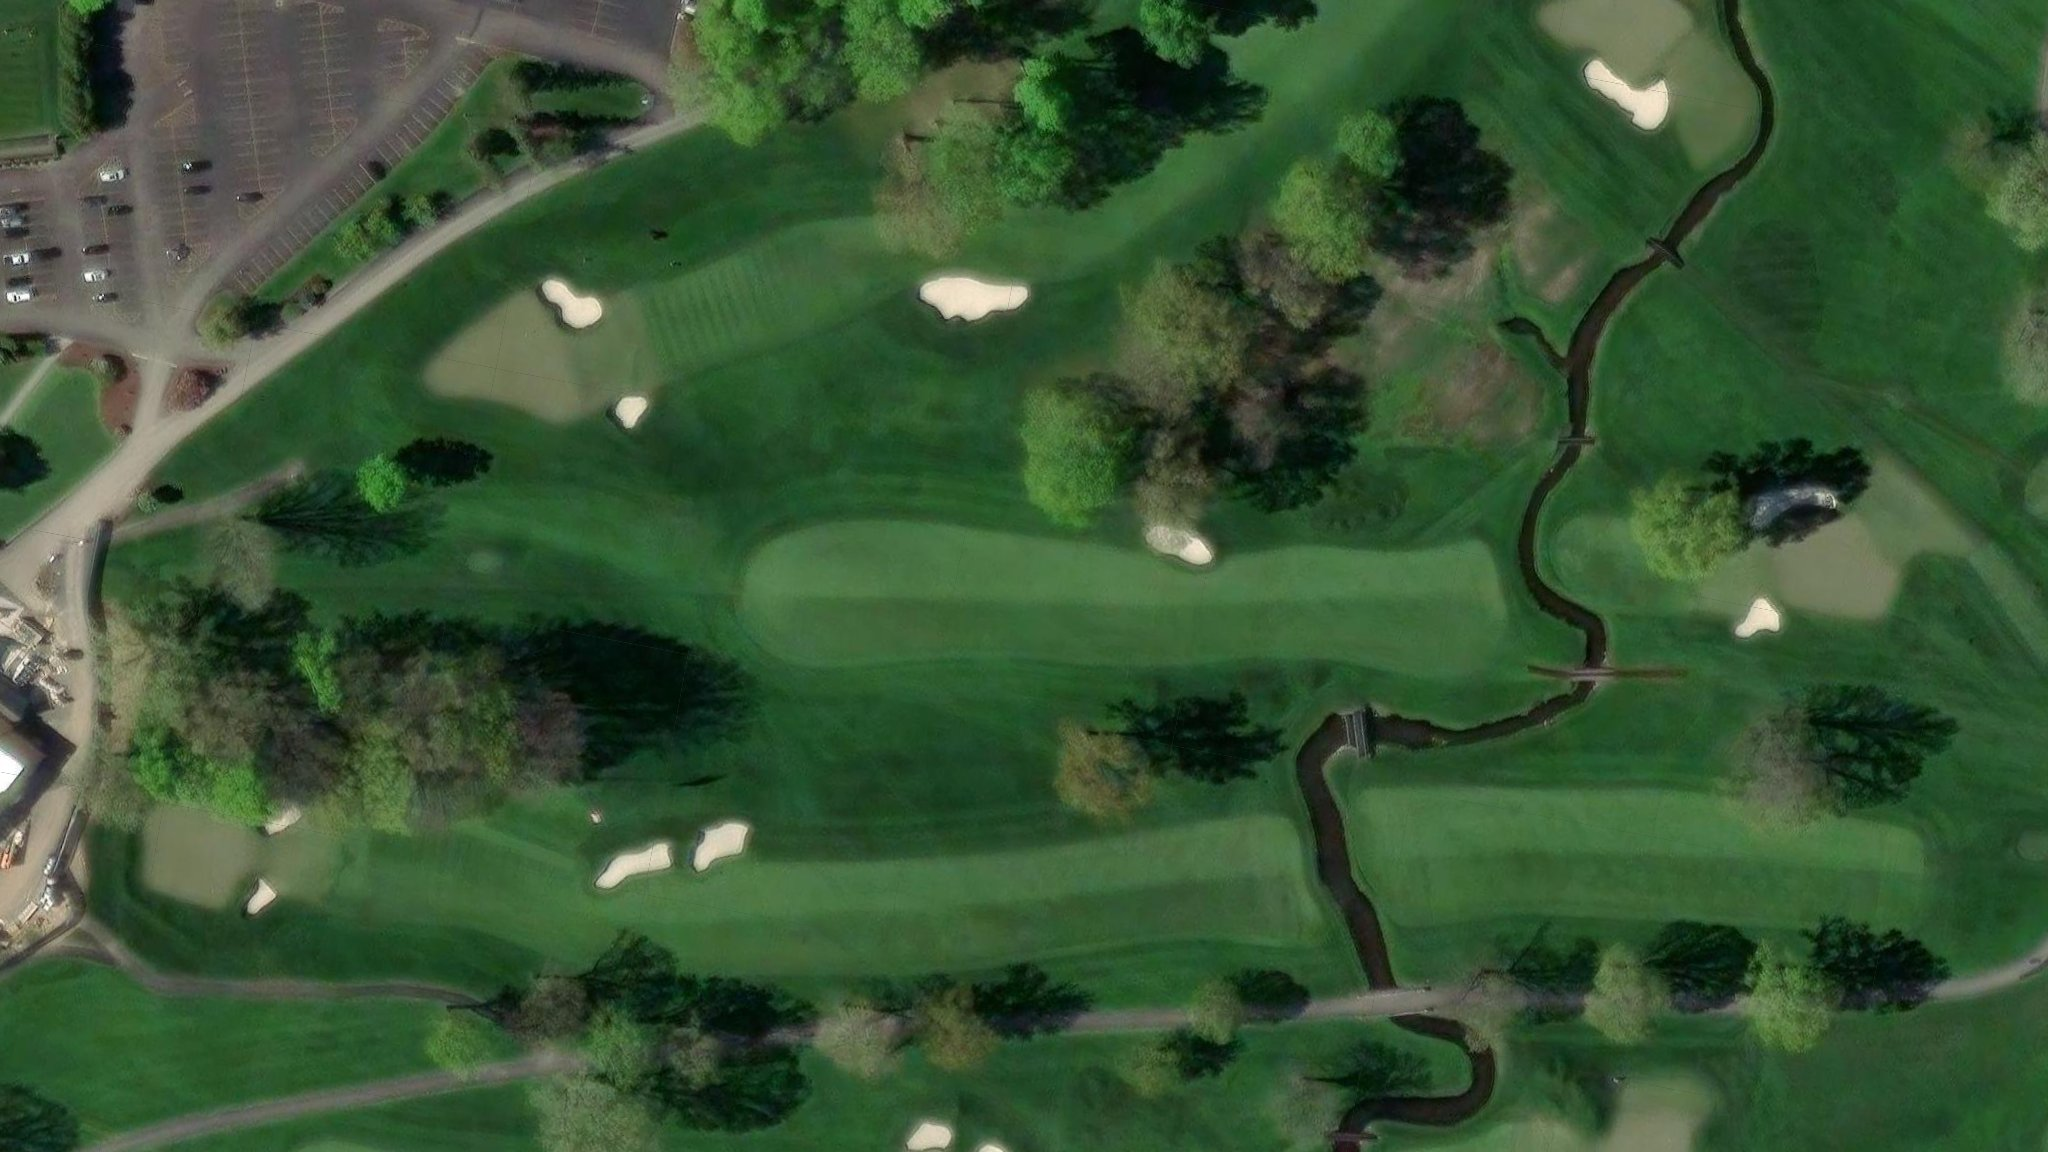
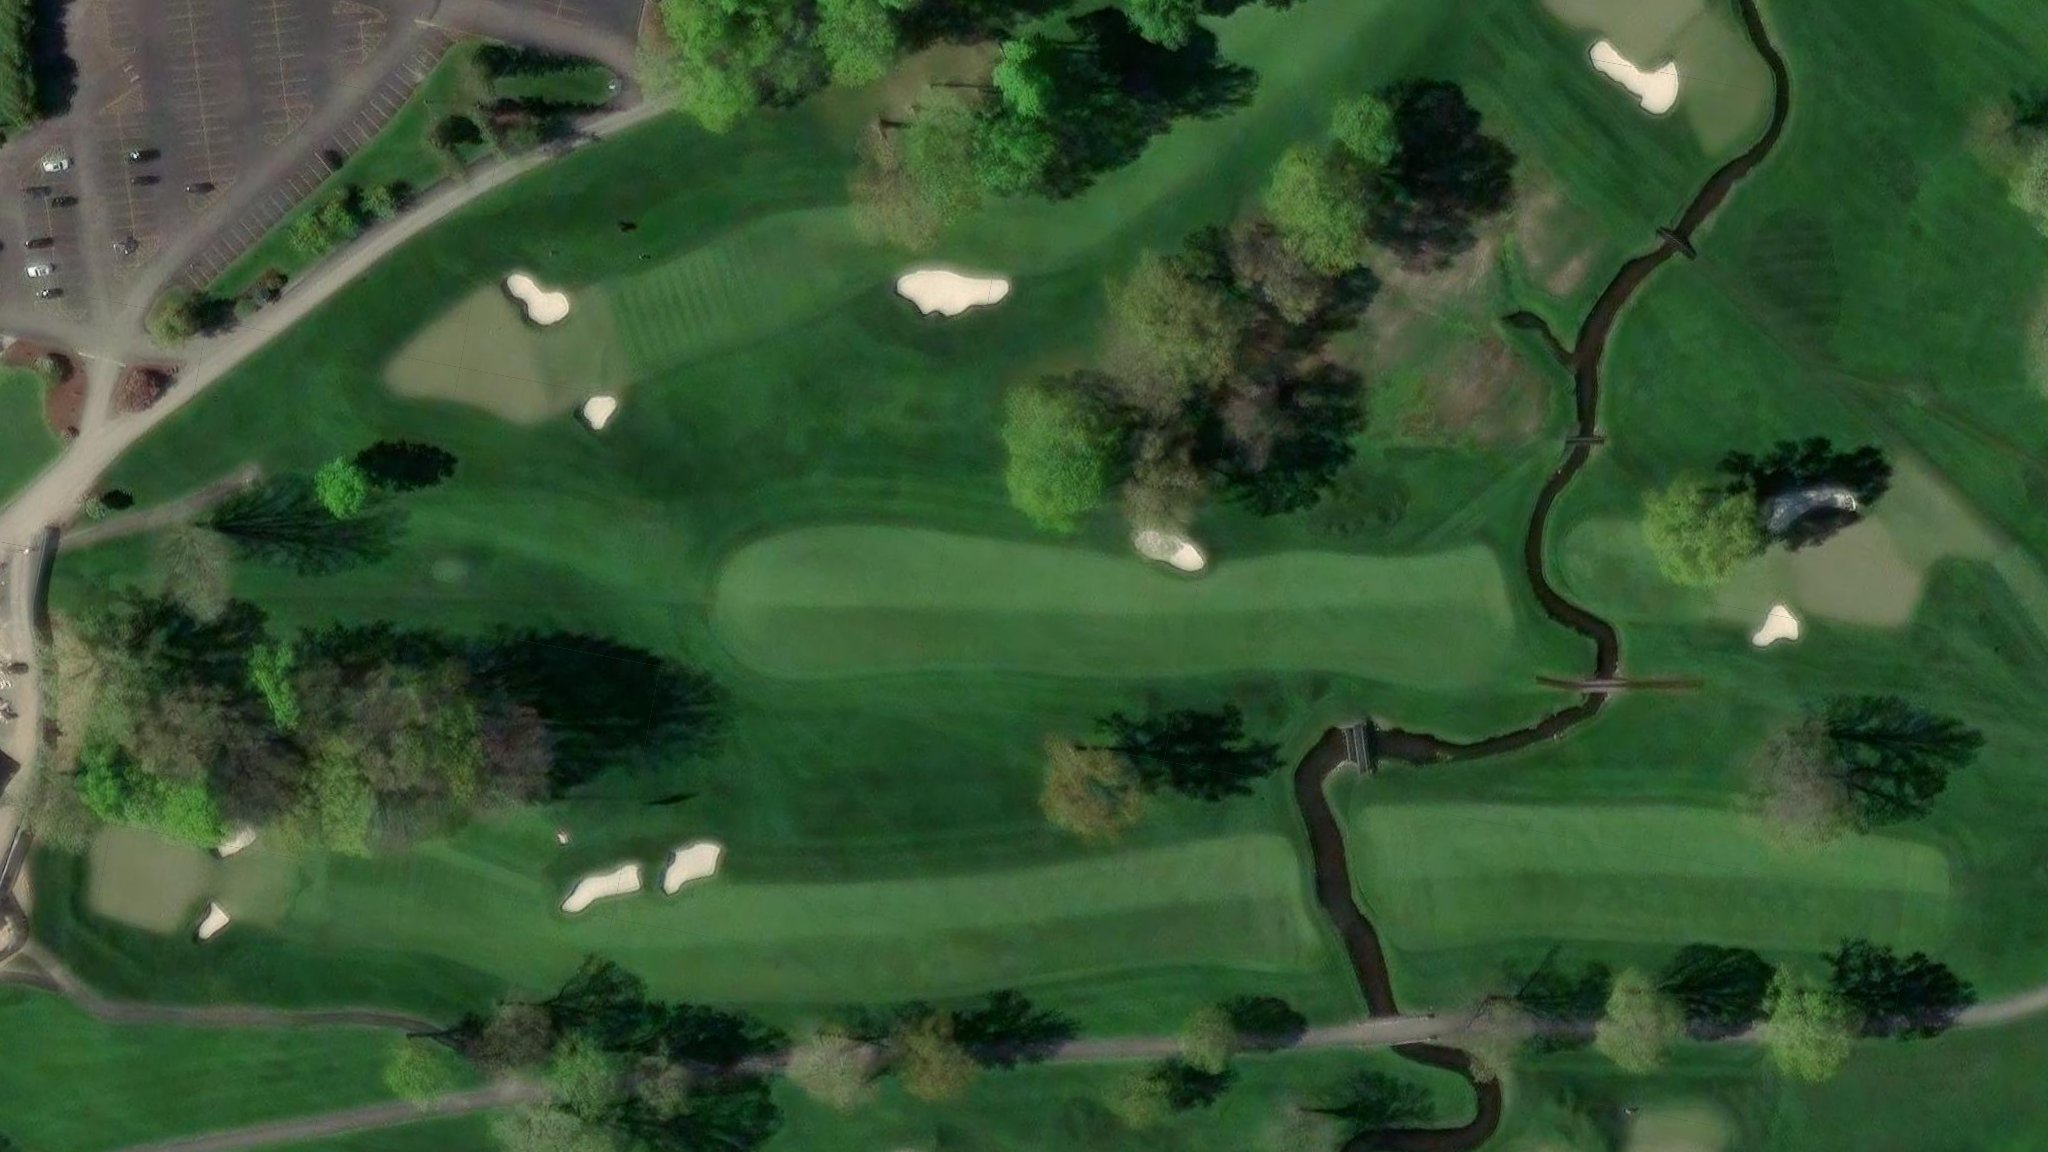
Marshal guide: 10 hole images, 28 stations (+1 image file)

diff --git a/js/holes-data.js b/js/holes-data.js
@@ -1,5 +1,5 @@
 // Hole images and marshal stations.
-// Saved from admin.html on 2026-08-25T00:57:49.768Z
+// Saved from admin.html on 2026-08-25T01:01:26.406Z
 const HOLES_DATA = {
   "east": {
     "name": "Oak Hill East",
@@ -476,15 +476,45 @@ const HOLES_DATA = {
         ],
         "source": {
           "kind": "satellite",
-          "tee": null,
-          "green": null,
+          "tee": {
+            "lat": 43.11300834059392,
+            "lng": -77.53187136637408
+          },
+          "green": {
+            "lat": 43.113632434380925,
+            "lng": -77.52733100345098
+          },
           "bearingNudge": 0,
           "zoomNudge": 0,
-          "shots": []
+          "shots": [
+            {
+              "lat": 43.113289891826994,
+              "lng": -77.52919893859026
+            }
+          ]
         },
-        "image": null,
-        "imageReady": false,
-        "spotsDone": false
+        "image": {
+          "src": "images/holes/east-10.jpg",
+          "width": 2048,
+          "height": 1152,
+          "tee": {
+            "x": 0.07999999999821464,
+            "y": 0.49999999999940237
+          },
+          "green": {
+            "x": 0.9199999999982147,
+            "y": 0.4999999999994025
+          },
+          "shots": [
+            {
+              "x": 0.5704649140038891,
+              "y": 0.5373277783298039
+            }
+          ]
+        },
+        "imageReady": true,
+        "spotsDone": false,
+        "lengthYards": 410.6637107469058
       },
       {
         "number": 11,
